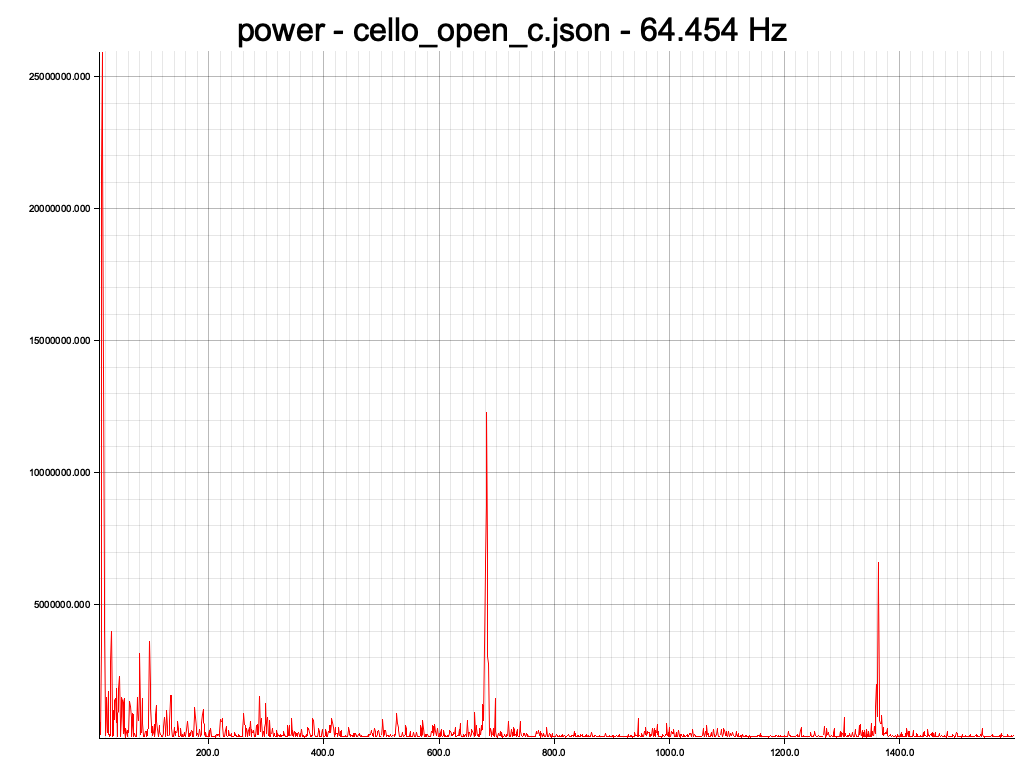
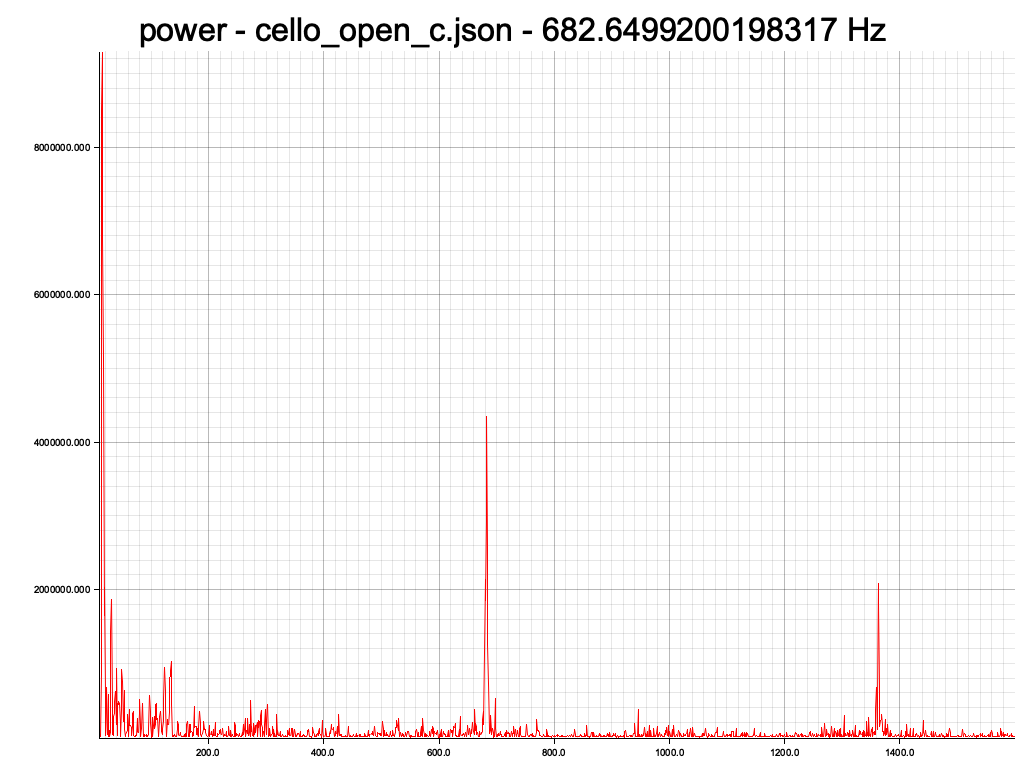
plotting improved

diff --git a/examples/spectrum_plot.rs b/examples/spectrum_plot.rs
@@ -1,7 +1,8 @@
 use freq_detector::{
     core::test_utils::test_signal,
     frequency::{
-        autocorrelation::AutocorrelationDetector, FrequencyDetector, FrequencyDetectorTest,
+        autocorrelation::AutocorrelationDetector, cepstrum::PowerCepstrum, raw_fft::RawFftDetector,
+        FrequencyDetector, FrequencyDetectorTest,
     },
 };
 use plotters::prelude::*;
@@ -54,6 +55,21 @@ where
     root.present()?;
     Ok(())
 }
+
+fn plot_detector_for_files<D: FrequencyDetector + FrequencyDetectorTest>(
+    mut detector: D,
+    test_files: &[&str],
+) -> anyhow::Result<()> {
+    const TEST_FILE_SAMPLE_RATE: f64 = 44000.;
+    for test_file in test_files {
+        let test_signal = test_signal(test_file)?;
+        let fft_point = detector
+            .detect_unscaled_freq(&test_signal, TEST_FILE_SAMPLE_RATE)
+            .ok_or(anyhow::anyhow!(""))?;
+        plot(&detector, test_signal, test_file, fft_point.x)?;
+    }
+    Ok(())
+}
 fn main() -> anyhow::Result<()> {
     let test_files = [
         "cello_open_a.json",
@@ -61,13 +77,10 @@ fn main() -> anyhow::Result<()> {
         "cello_open_g.json",
         "cello_open_c.json",
         "tuner_c5.json",
+        // "noise.json",
     ];
-    let mut detector = AutocorrelationDetector;
-    plot(
-        &mut detector,
-        test_signal("tuner_c5.json")?,
-        "tuner_c5",
-        523.,
-    )?;
+    plot_detector_for_files(AutocorrelationDetector, &test_files)?;
+    plot_detector_for_files(PowerCepstrum, &test_files)?;
+    plot_detector_for_files(RawFftDetector, &test_files)?;
     Ok(())
 }

diff --git a/src/frequency.rs b/src/frequency.rs
@@ -53,6 +53,24 @@ pub trait FrequencyDetectorTest {
         &mut self,
         signal: I,
         sample_rate: f64,
+    ) -> Option<FftPoint>
+    where
+        <I as IntoIterator>::Item: std::borrow::Borrow<f64>,
+    {
+        let signal_iter = signal.into_iter();
+        let mut fft_space = FftSpace::new_padded(
+            signal_iter
+                .size_hint()
+                .1
+                .expect("Signal length is not known"),
+        );
+        self.detect_unscaled_freq_with_space(signal_iter, sample_rate, &mut fft_space)
+    }
+
+    fn detect_unscaled_freq_with_space<I: IntoIterator>(
+        &mut self,
+        signal: I,
+        sample_rate: f64,
         fft_space: &mut FftSpace,
     ) -> Option<FftPoint>
     where

diff --git a/src/frequency/autocorrelation.rs b/src/frequency/autocorrelation.rs
@@ -156,7 +156,7 @@ mod test_utils {
             Self::spectrum(&fft_space, sample_rate).collect()
         }
 
-        fn detect_unscaled_freq<I: IntoIterator>(
+        fn detect_unscaled_freq_with_space<I: IntoIterator>(
             &mut self,
             signal: I,
             sample_rate: f64,

diff --git a/src/frequency/cepstrum.rs b/src/frequency/cepstrum.rs
@@ -112,7 +112,7 @@ mod test_utils {
             Self::spectrum(&fft_space, sample_rate).collect()
         }
 
-        fn detect_unscaled_freq<I: IntoIterator>(
+        fn detect_unscaled_freq_with_space<I: IntoIterator>(
             &mut self,
             signal: I,
             sample_rate: f64,

diff --git a/src/frequency/raw_fft.rs b/src/frequency/raw_fft.rs
@@ -109,7 +109,7 @@ mod test_utils {
             Self::spectrum(&fft_space, sample_rate).collect()
         }
 
-        fn detect_unscaled_freq<I: IntoIterator>(
+        fn detect_unscaled_freq_with_space<I: IntoIterator>(
             &mut self,
             signal: I,
             sample_rate: f64,
